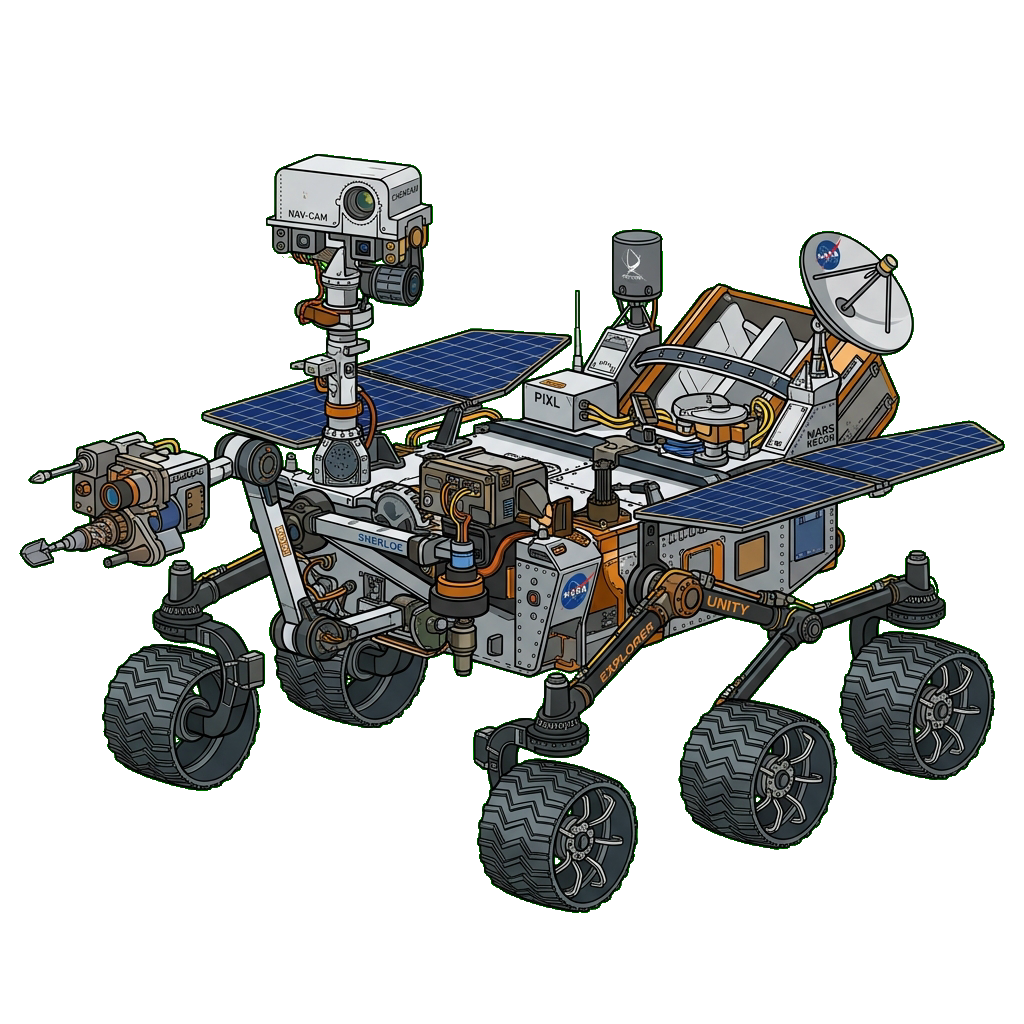
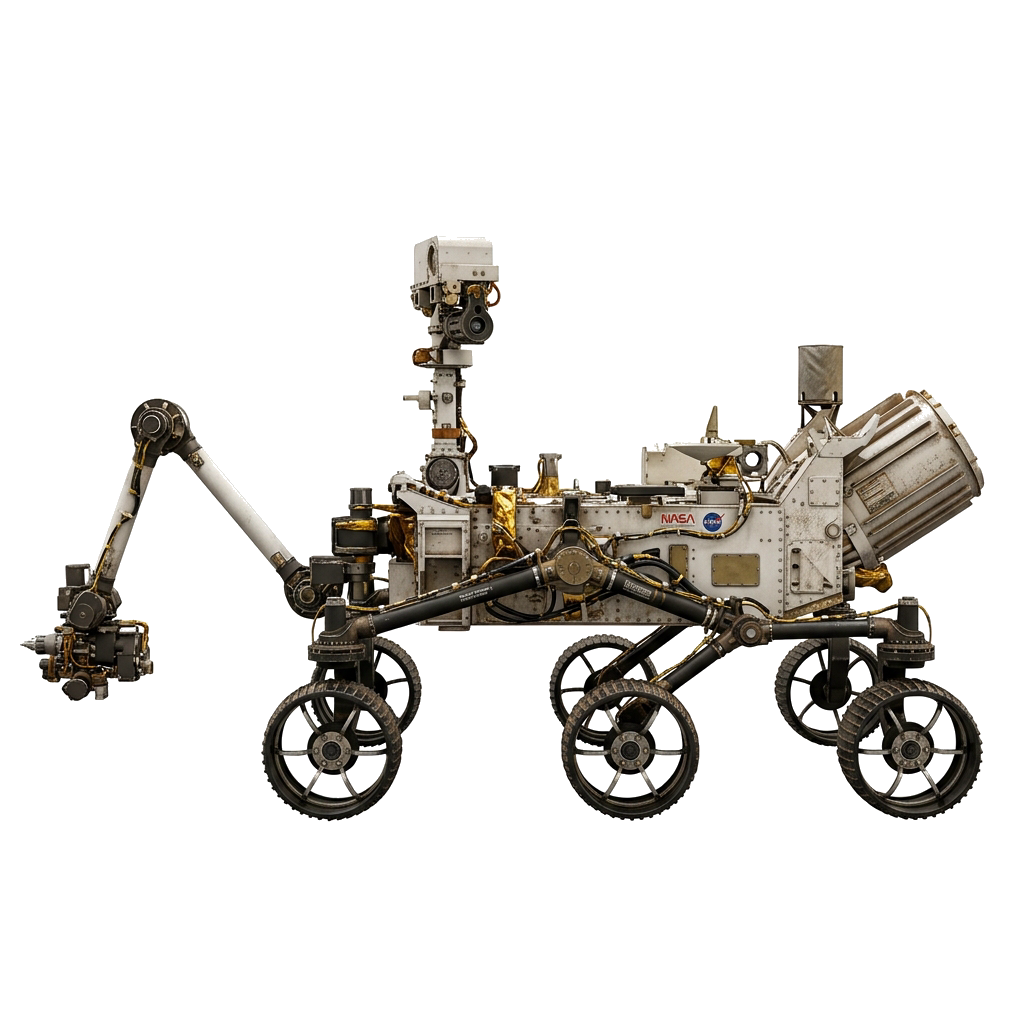
fix: replaced broken external rover images with local generated distinct assets and fixed background position to reveal martian horizon

diff --git a/app/hub/robots-espacio/page.js b/app/hub/robots-espacio/page.js
@@ -26,14 +26,14 @@ export default function RobotsHub() {
   // Por ahora, todos enlazan al gran curso interactivo que construimos.
 
   const orbitalData = [
-    { id: 'robots_historia', title: 'Historia', img: 'https://upload.wikimedia.org/wikipedia/commons/thumb/6/6f/Voyager_spacecraft_model.png/800px-Voyager_spacecraft_model.png', left: '12%', top: '15%', size: 'clamp(60px, 8vw, 110px)' },
-    { id: 'robots_sojourner', title: 'Sojourner', img: 'https://upload.wikimedia.org/wikipedia/commons/thumb/3/3a/Sojourner_rover_on_Mars_transparent.png/800px-Sojourner_rover_on_Mars_transparent.png', left: '25%', top: '82%', size: 'clamp(50px, 7vw, 90px)' },
-    { id: 'robots_spirit', title: 'Spirit', img: 'https://upload.wikimedia.org/wikipedia/commons/thumb/d/d8/NASA_Mars_Rover.png/800px-NASA_Mars_Rover.png', left: '42%', top: '70%', size: 'clamp(70px, 9vw, 110px)' },
-    { id: 'robots_opportunity', title: 'Opportunity', img: 'https://upload.wikimedia.org/wikipedia/commons/thumb/d/d8/NASA_Mars_Rover.png/800px-NASA_Mars_Rover.png', left: '55%', top: '85%', size: 'clamp(70px, 9vw, 110px)' },
-    { id: 'robots_curiosity', title: 'Curiosity', img: 'https://upload.wikimedia.org/wikipedia/commons/thumb/f/f3/Curiosity_rover.png/800px-Curiosity_rover.png', left: '72%', top: '65%', size: 'clamp(90px, 11vw, 140px)' },
-    { id: 'robots_perseverance', title: 'Perseverance', img: 'https://upload.wikimedia.org/wikipedia/commons/thumb/c/c2/Mars_2020_rover_transparent_background.png/800px-Mars_2020_rover_transparent_background.png', left: '88%', top: '78%', size: 'clamp(100px, 12vw, 150px)' },
-    { id: 'robots_ingenuity', title: 'Ingenuity', img: 'https://upload.wikimedia.org/wikipedia/commons/thumb/c/ce/Mars_Helicopter_Ingenuity_transparent_background.png/800px-Mars_Helicopter_Ingenuity_transparent_background.png', left: '75%', top: '25%', size: 'clamp(60px, 8vw, 100px)' },
-    { id: 'robots_futuras', title: 'Misiones Futuras', img: 'https://upload.wikimedia.org/wikipedia/commons/thumb/1/15/Mars_Sample_Return_%28transparent%29.png/800px-Mars_Sample_Return_%28transparent%29.png', left: '88%', top: '15%', size: 'clamp(70px, 9vw, 120px)' }
+    { id: 'robots_historia', title: 'Historia', img: '/assets/rovers/curiosity.svg', left: '12%', top: '15%', size: 'clamp(60px, 8vw, 110px)' },
+    { id: 'robots_sojourner', title: 'Sojourner', img: '/assets/rovers/ai_sojourner.png', left: '25%', top: '82%', size: 'clamp(50px, 7vw, 90px)' },
+    { id: 'robots_spirit', title: 'Spirit', img: '/assets/rovers/ai_spirit.png', left: '42%', top: '70%', size: 'clamp(70px, 9vw, 110px)' },
+    { id: 'robots_opportunity', title: 'Opportunity', img: '/assets/rovers/ai_spirit.png', left: '55%', top: '85%', size: 'clamp(70px, 9vw, 110px)' }, // Opportunity es gemelo de Spirit
+    { id: 'robots_curiosity', title: 'Curiosity', img: '/assets/rovers/ai_curiosity.png', left: '72%', top: '65%', size: 'clamp(90px, 11vw, 140px)' },
+    { id: 'robots_perseverance', title: 'Perseverance', img: '/assets/rovers/ai_curiosity.png', left: '88%', top: '78%', size: 'clamp(100px, 12vw, 150px)' }, // Perseverance se parece a Curiosity
+    { id: 'robots_ingenuity', title: 'Ingenuity', img: '/assets/rovers/ai_ingenuity.png', left: '75%', top: '25%', size: 'clamp(60px, 8vw, 100px)' },
+    { id: 'robots_futuras', title: 'Misiones Futuras', img: '/assets/rovers/perseverance.svg', left: '88%', top: '15%', size: 'clamp(70px, 9vw, 120px)' }
   ];
 
   useEffect(() => {
@@ -56,7 +56,7 @@ export default function RobotsHub() {
       <main style={{ 
         flex: 1, position: 'relative', width: '100vw', height: '100vh', 
         display: 'flex', alignItems: 'center', justifyContent: 'center', padding: '1rem', 
-        background: 'url(/assets/robots/robots_hub_bg.png) center bottom / cover' 
+        background: 'url(/assets/robots/robots_hub_bg.png) center center / cover' 
       }}>
         
         {/* Overlay anaranjado marciano */}
